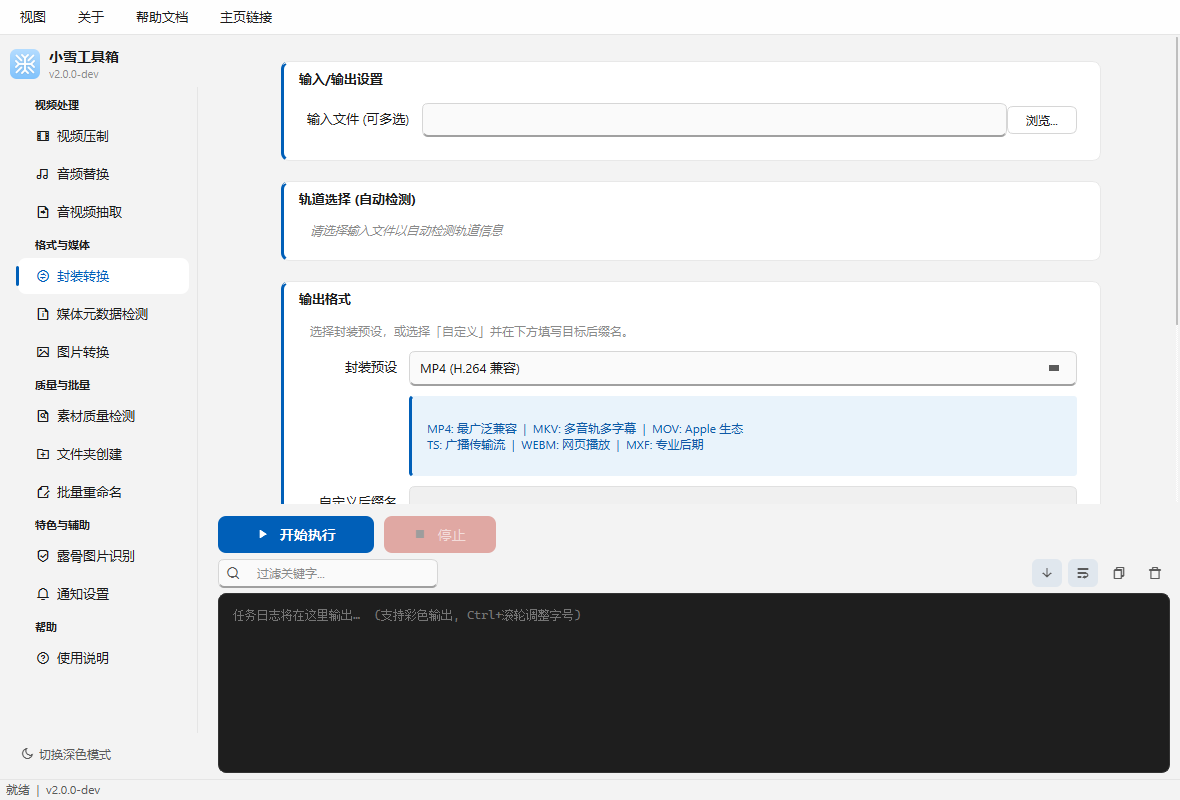
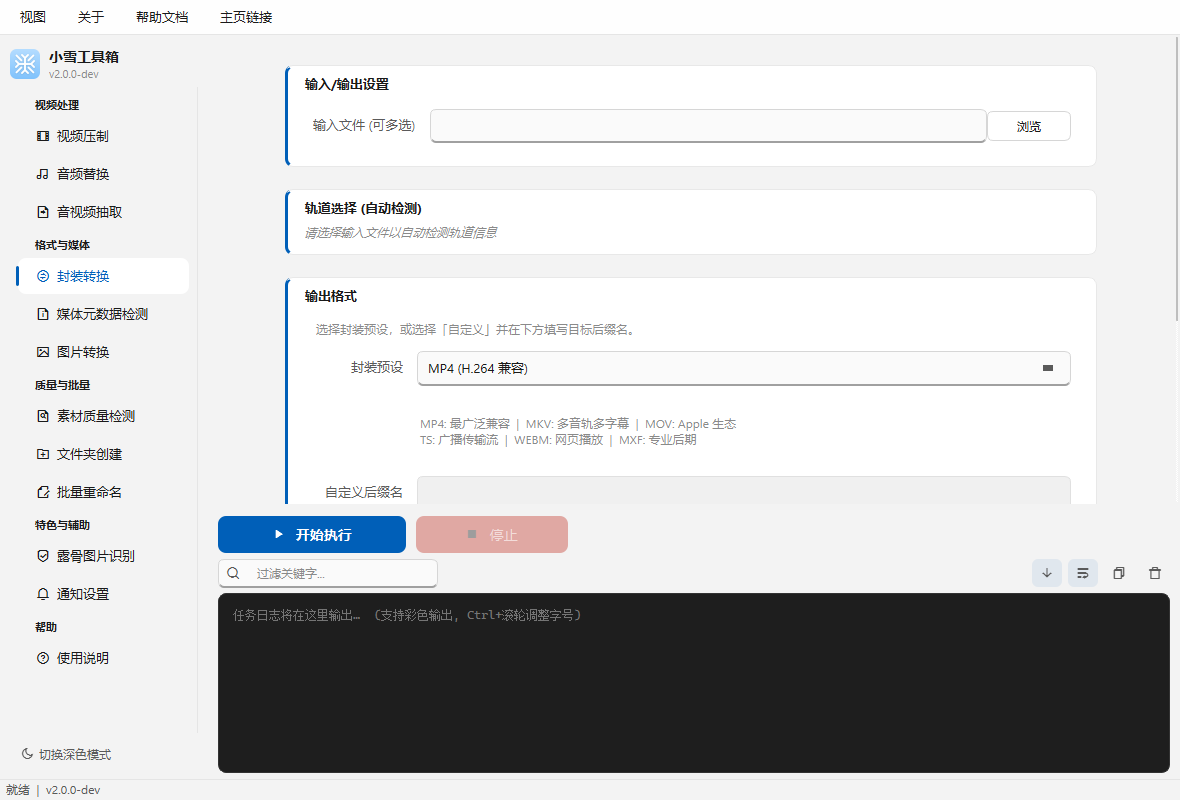
feat(ui): 功能页排版精修 —— 对齐、控件统一宽度、说明文字降噪
- 行内动作按钮统一 84px (浏览/重新检测), 文本简化为「浏览」, 指针手型
- spinbox 统一 160px 定宽, 与长输入框形成一致的左缘网格
- 表单标签改次要色 (QGroupBox QLabel), 字段值成为视觉主角
- info 提示降噪为安静的灰色说明文字; warning/tip 保留柔和色底, 去掉左侧色条
- 修复轨道面板相对其他卡片多缩进 12px 的错位; 轨道复选框左缘对齐
- 超链接去下划线, 链接色随主题 (QPalette.Link)
- 容器留白 24/20, 行距 10/12, 卡片内边距 16px, 整体节奏统一

diff --git a/src/ui/base_tab.py b/src/ui/base_tab.py
@@ -14,6 +14,12 @@ from .args_builder import ArgsNamespace
 # 表单内容列的最大宽度: 避免宽窗口下输入框被无限拉长
 CONTENT_MAX_WIDTH = 860
 
+# 行内动作按钮 (浏览/重新检测) 的统一宽度
+ACTION_BTN_WIDTH = 84
+
+# 数字微调框等短控件的统一宽度
+SPIN_WIDTH = 160
+
 _STATUS_KINDS = {
     "muted": ("muted_label", True),
     "error": ("error_label", False),
@@ -95,8 +101,8 @@ class BaseTab(QScrollArea):
         self._container = QWidget()
         self._container.setMaximumWidth(CONTENT_MAX_WIDTH)
         self._main_layout = QVBoxLayout(self._container)
-        self._main_layout.setContentsMargins(20, 16, 20, 16)
-        self._main_layout.setSpacing(10)
+        self._main_layout.setContentsMargins(24, 20, 24, 20)
+        self._main_layout.setSpacing(12)
         self.setWidget(self._container)
         self.setAlignment(Qt.AlignmentFlag.AlignHCenter)
 
@@ -112,8 +118,8 @@ class BaseTab(QScrollArea):
             Qt.AlignmentFlag.AlignRight | Qt.AlignmentFlag.AlignVCenter
         )
         layout.setRowWrapPolicy(QFormLayout.RowWrapPolicy.DontWrapRows)
-        layout.setHorizontalSpacing(12)
-        layout.setVerticalSpacing(8)
+        layout.setHorizontalSpacing(14)
+        layout.setVerticalSpacing(10)
         group.setLayout(layout)
 
         if description:
@@ -135,8 +141,9 @@ class BaseTab(QScrollArea):
         edit = FileDropLineEdit()
         if tooltip:
             edit.setToolTip(tooltip)
-        btn = QPushButton("浏览...")
-        btn.setFixedWidth(70)
+        btn = QPushButton("浏览")
+        btn.setCursor(Qt.CursorShape.PointingHandCursor)
+        btn.setFixedWidth(ACTION_BTN_WIDTH)
         row.addWidget(edit, 1)
         row.addWidget(btn, 0)
 
@@ -155,8 +162,9 @@ class BaseTab(QScrollArea):
         edit = FileDropLineEdit()
         if tooltip:
             edit.setToolTip(tooltip)
-        btn = QPushButton("浏览...")
-        btn.setFixedWidth(70)
+        btn = QPushButton("浏览")
+        btn.setCursor(Qt.CursorShape.PointingHandCursor)
+        btn.setFixedWidth(ACTION_BTN_WIDTH)
         row.addWidget(edit, 1)
         row.addWidget(btn, 0)
 
@@ -175,8 +183,9 @@ class BaseTab(QScrollArea):
         edit = FileDropLineEdit()
         if tooltip:
             edit.setToolTip(tooltip)
-        btn = QPushButton("浏览...")
-        btn.setFixedWidth(70)
+        btn = QPushButton("浏览")
+        btn.setCursor(Qt.CursorShape.PointingHandCursor)
+        btn.setFixedWidth(ACTION_BTN_WIDTH)
         row.addWidget(edit, 1)
         row.addWidget(btn, 0)
 
@@ -195,8 +204,9 @@ class BaseTab(QScrollArea):
         edit = FileDropLineEdit(multi=True)
         if tooltip:
             edit.setToolTip(tooltip)
-        btn = QPushButton("浏览...")
-        btn.setFixedWidth(70)
+        btn = QPushButton("浏览")
+        btn.setCursor(Qt.CursorShape.PointingHandCursor)
+        btn.setFixedWidth(ACTION_BTN_WIDTH)
         row.addWidget(edit, 1)
         row.addWidget(btn, 0)
 
@@ -238,6 +248,7 @@ class BaseTab(QScrollArea):
         spin = QSpinBox()
         spin.setRange(min_val, max_val)
         spin.setValue(default)
+        spin.setFixedWidth(SPIN_WIDTH)
         if tooltip:
             spin.setToolTip(tooltip)
         layout.addRow(label, spin)
@@ -263,7 +274,7 @@ class BaseTab(QScrollArea):
 
     def add_link(self, layout, url, text="查看在线文档"):
         """添加可点击的超链接。"""
-        link = QLabel(f'<a href="{url}">{text}</a>')
+        link = QLabel(f'<a href="{url}" style="text-decoration: none;">{text}</a>')
         link.setOpenExternalLinks(True)
         layout.addRow("", link)
 
@@ -301,9 +312,9 @@ class BaseTab(QScrollArea):
             Qt.AlignmentFlag.AlignRight | Qt.AlignmentFlag.AlignVCenter
         )
         layout.setRowWrapPolicy(QFormLayout.RowWrapPolicy.DontWrapRows)
-        layout.setHorizontalSpacing(12)
-        layout.setVerticalSpacing(8)
-        layout.setContentsMargins(14, 0, 0, 4)
+        layout.setHorizontalSpacing(14)
+        layout.setVerticalSpacing(10)
+        layout.setContentsMargins(16, 0, 0, 4)
 
         if description:
             desc = QLabel(description)

diff --git a/src/ui/theme.py b/src/ui/theme.py
@@ -359,17 +359,21 @@ QGroupBox {
     border-left: 3px solid $accent_bar;
     border-radius: 8px;
     margin-top: 10px;
-    padding: 32px 14px 14px 14px;
+    padding: 34px 16px 14px 16px;
     background-color: $card_bg;
     color: $text_primary;
 }
 QGroupBox::title {
     subcontrol-origin: border;
     subcontrol-position: top left;
-    left: 12px;
-    top: 9px;
+    left: 14px;
+    top: 10px;
     padding: 0 4px;
     color: $card_title;
+}
+/* 表单标签统一用次要色, 让字段值成为视觉主角 (ID 选择器的语义样式可覆盖) */
+QGroupBox QLabel {
+    color: $text_secondary;
 }
 
 /* ================================================================
@@ -504,7 +508,8 @@ QPushButton#execute_btn {
     border: none;
     font-weight: bold;
     font-size: 14px;
-    padding: 9px 36px;
+    padding: 9px 28px;
+    min-width: 132px;
     border-radius: 8px;
 }
 QPushButton#execute_btn:hover {
@@ -527,6 +532,7 @@ QPushButton#stop_btn {
     border: none;
     font-size: 14px;
     padding: 9px 28px;
+    min-width: 96px;
     border-radius: 8px;
 }
 QPushButton#stop_btn:hover {
@@ -573,9 +579,14 @@ QPushButton#icon_btn:checked {
     background-color: $accent_tint;
 }
 
-/* Tab 内按钮 (浏览...) */
-QPushButton[text="浏览..."] {
-    padding: 5px 12px;
+/* Tab 内行内动作按钮 (浏览 / 重新检测) —— 统一宽度由代码侧固定 */
+QPushButton[text="浏览"] {
+    padding: 6px 0;
+    font-size: 12px;
+    border-radius: 6px;
+}
+QPushButton[text="重新检测"] {
+    padding: 6px 0;
     font-size: 12px;
     border-radius: 6px;
 }
@@ -774,31 +785,31 @@ QLabel#group_desc {
     margin-bottom: 4px;
 }
 QLabel#hint_info {
-    background-color: $hint_info_bg;
-    border-left: 3px solid $hint_info_border;
-    border-radius: 3px;
-    padding: 8px 12px;
-    color: $hint_info_text;
+    color: $text_tertiary;
     font-size: 12px;
+    line-height: 150%;
+    padding: 1px 0;
     margin: 2px 0;
+    background: transparent;
+    border: none;
 }
 QLabel#hint_warning {
     background-color: $hint_warn_bg;
-    border-left: 3px solid $hint_warn_border;
-    border-radius: 3px;
+    border: 1px solid $hint_warn_border;
+    border-radius: 6px;
     padding: 8px 12px;
     color: $hint_warn_text;
     font-size: 12px;
-    margin: 2px 0;
+    margin: 4px 0;
 }
 QLabel#hint_tip {
     background-color: $hint_tip_bg;
-    border-left: 3px solid $hint_tip_border;
-    border-radius: 3px;
+    border: 1px solid $hint_tip_border;
+    border-radius: 6px;
     padding: 8px 12px;
     color: $hint_tip_text;
     font-size: 12px;
-    margin: 2px 0;
+    margin: 4px 0;
 }
 QLabel#muted_label {
     color: $text_tertiary;
@@ -928,6 +939,8 @@ def apply_theme(app, theme: str = None):
     pal.setColor(QPalette.ColorRole.ToolTipBase, QColor(p["tooltip_bg"]))
     pal.setColor(QPalette.ColorRole.ToolTipText, QColor(p["tooltip_text"]))
     pal.setColor(QPalette.ColorRole.PlaceholderText, QColor(p["input_placeholder"]))
+    pal.setColor(QPalette.ColorRole.Link, QColor(p["accent"]))
+    pal.setColor(QPalette.ColorRole.LinkVisited, QColor(p["accent"]))
     pal.setColor(QPalette.ColorGroup.Disabled,
                  QPalette.ColorRole.WindowText, QColor(p["text_disabled"]))
     pal.setColor(QPalette.ColorGroup.Disabled,

diff --git a/src/ui/tabs/encode_tab.py b/src/ui/tabs/encode_tab.py
@@ -9,7 +9,7 @@ from PyQt6.QtWidgets import (
 )
 from PyQt6.QtCore import Qt
 
-from ..base_tab import BaseTab, set_label_kind
+from ..base_tab import BaseTab, set_label_kind, ACTION_BTN_WIDTH
 from ..args_builder import ArgsNamespace
 from ...presets import (
     ENCODERS, QUALITY_PRESETS, CPU_PRESETS, NVENC_PRESETS,
@@ -327,7 +327,7 @@ class EncodeTab(BaseTab):
     def _build_track_panel(self):
         self._track_group = QGroupBox("轨道选择 (自动检测)")
         outer = QVBoxLayout()
-        outer.setContentsMargins(12, 8, 12, 8)
+        outer.setContentsMargins(0, 0, 0, 0)
         outer.setSpacing(6)
         self._track_group.setLayout(outer)
 
@@ -358,7 +358,7 @@ class EncodeTab(BaseTab):
 
         btn_row = QHBoxLayout()
         self._probe_btn = QPushButton("重新检测")
-        self._probe_btn.setFixedWidth(90)
+        self._probe_btn.setFixedWidth(ACTION_BTN_WIDTH)
         self._probe_btn.setVisible(False)
         self._probe_btn.clicked.connect(self._do_probe)
         btn_row.addWidget(self._probe_btn)
@@ -457,7 +457,6 @@ class EncodeTab(BaseTab):
                 label = self._build_stream_label(stream, "audio")
                 cb = QCheckBox(label)
                 cb.setChecked(True)
-                cb.setStyleSheet("padding:2px 0; margin-left:8px;")
                 self._track_audio_layout.addWidget(cb)
                 self._audio_checks.append((cb, stream.index))
             self._track_audio_container.setVisible(True)
@@ -473,7 +472,6 @@ class EncodeTab(BaseTab):
                 label = self._build_stream_label(stream, "subtitle")
                 cb = QCheckBox(label)
                 cb.setChecked(False)
-                cb.setStyleSheet("padding:2px 0; margin-left:8px;")
                 self._track_sub_layout.addWidget(cb)
                 self._sub_checks.append((cb, stream.index))
             self._track_sub_container.setVisible(True)

diff --git a/src/ui/tabs/remux_tab.py b/src/ui/tabs/remux_tab.py
@@ -9,7 +9,7 @@ from PyQt6.QtWidgets import (
 )
 from PyQt6.QtCore import Qt
 
-from ..base_tab import BaseTab, set_label_kind
+from ..base_tab import BaseTab, set_label_kind, ACTION_BTN_WIDTH
 from ..args_builder import ArgsNamespace
 from ...presets import REMUX_PRESETS
 from ...media_probe import probe_detailed, LANGUAGE_NAMES
@@ -112,7 +112,7 @@ class RemuxTab(BaseTab):
     def _build_track_panel(self):
         self._track_group = QGroupBox("轨道选择 (自动检测)")
         outer = QVBoxLayout()
-        outer.setContentsMargins(12, 8, 12, 8)
+        outer.setContentsMargins(0, 0, 0, 0)
         outer.setSpacing(6)
         self._track_group.setLayout(outer)
 
@@ -143,7 +143,7 @@ class RemuxTab(BaseTab):
 
         btn_row = QHBoxLayout()
         self._probe_btn = QPushButton("重新检测")
-        self._probe_btn.setFixedWidth(90)
+        self._probe_btn.setFixedWidth(ACTION_BTN_WIDTH)
         self._probe_btn.setVisible(False)
         self._probe_btn.clicked.connect(self._do_probe)
         btn_row.addWidget(self._probe_btn)
@@ -250,7 +250,6 @@ class RemuxTab(BaseTab):
                 label = self._build_stream_label(stream, "audio")
                 cb = QCheckBox(label)
                 cb.setChecked(True)
-                cb.setStyleSheet("padding:2px 0; margin-left:8px;")
                 self._audio_layout.addWidget(cb)
                 self._audio_checks.append((cb, stream.index))
 
@@ -269,7 +268,6 @@ class RemuxTab(BaseTab):
                 label = self._build_stream_label(stream, "subtitle")
                 cb = QCheckBox(label)
                 cb.setChecked(True)
-                cb.setStyleSheet("padding:2px 0; margin-left:8px;")
                 self._sub_layout.addWidget(cb)
                 self._sub_checks.append((cb, stream.index))
 
